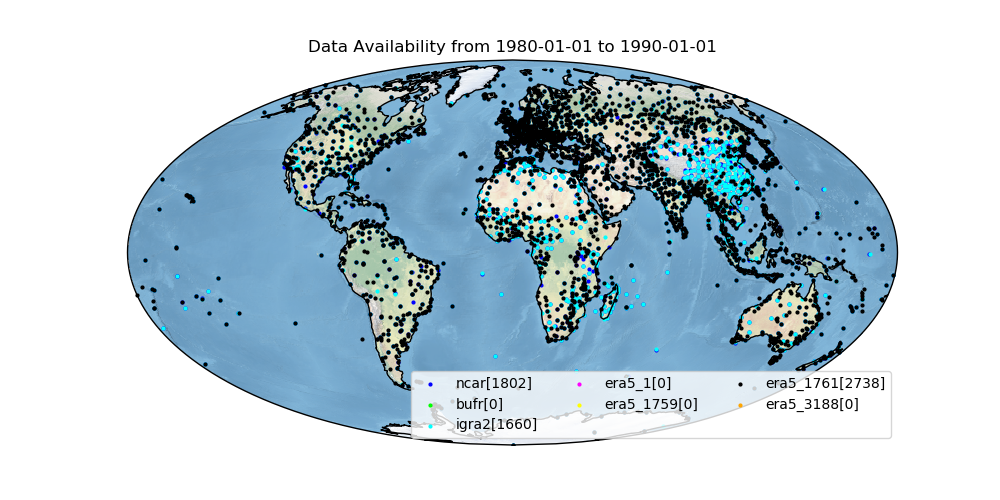
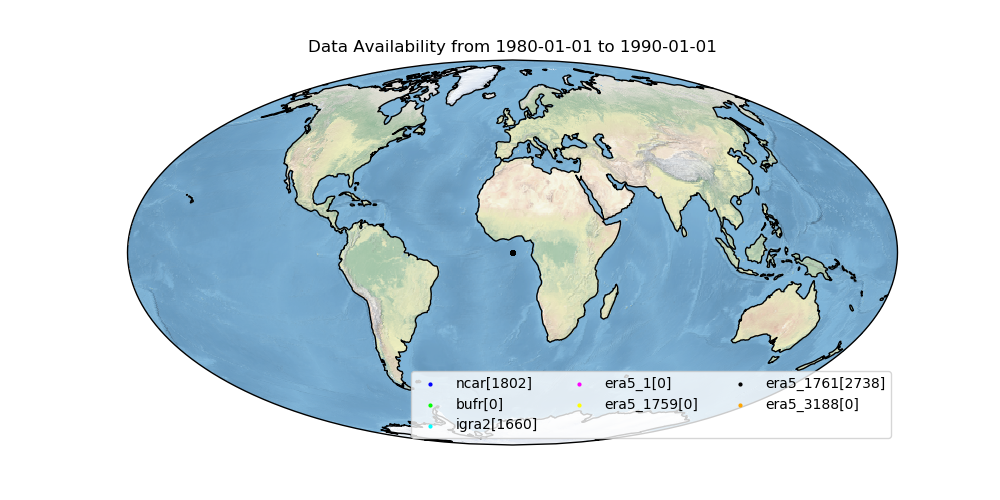
Up plots

diff --git a/CEUAS/cdm/code/merging/plot_stations_distributions.py b/CEUAS/cdm/code/merging/plot_stations_distributions.py
@@ -97,7 +97,7 @@ def makePlot(start_date= '', end_date = '', file = '', flag = ''):
         #lat = [-5, 100]
         #lon = [100, -50]
         #plt.scatter (lon, lat,   color = color , transform=ccrs.PlateCarree(central_longitude = 0.0), s = 7, label = d)
-        plt.scatter (lon, lat,   color = color, transform=ccrs.PlateCarree(), s = 4, label = d + '[' + str(len(lon)) + ']' )
+        plt.scatter (lon, lat,   color = color, s = 4, label = d + '[' + str(len(lon)) + ']' )
        
     plt.title('Data Availability from ' + start_date + ' to ' + end_date )   
     plt.legend(loc = 'lower right', ncol = 3)   
